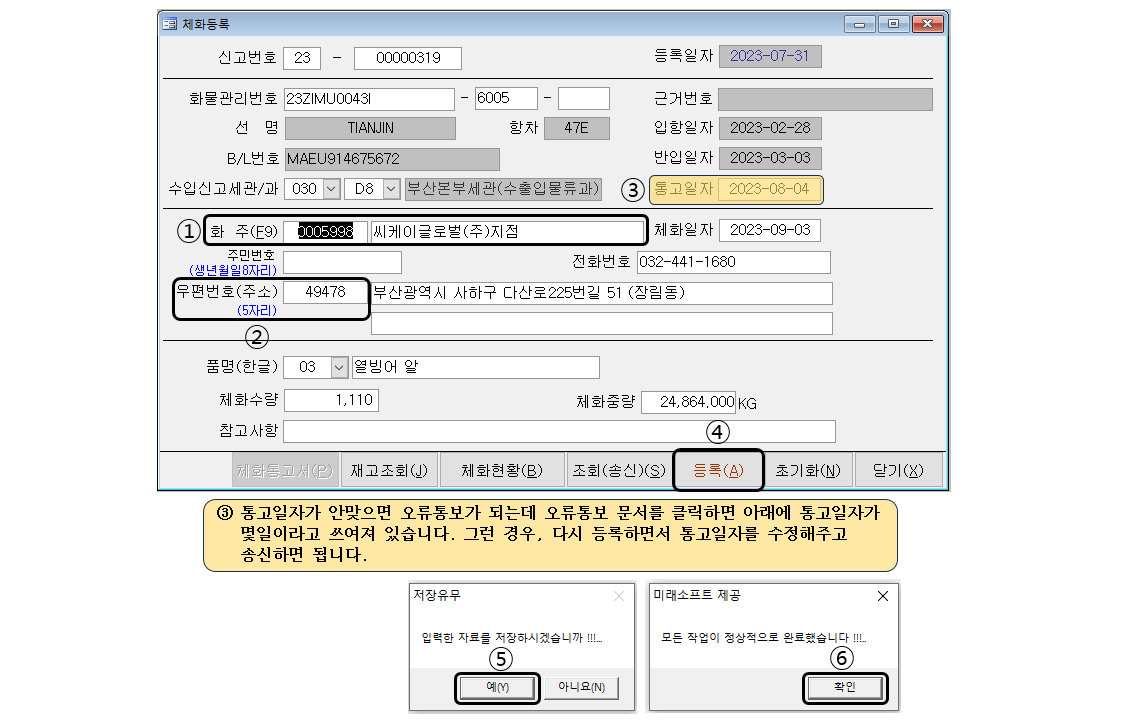
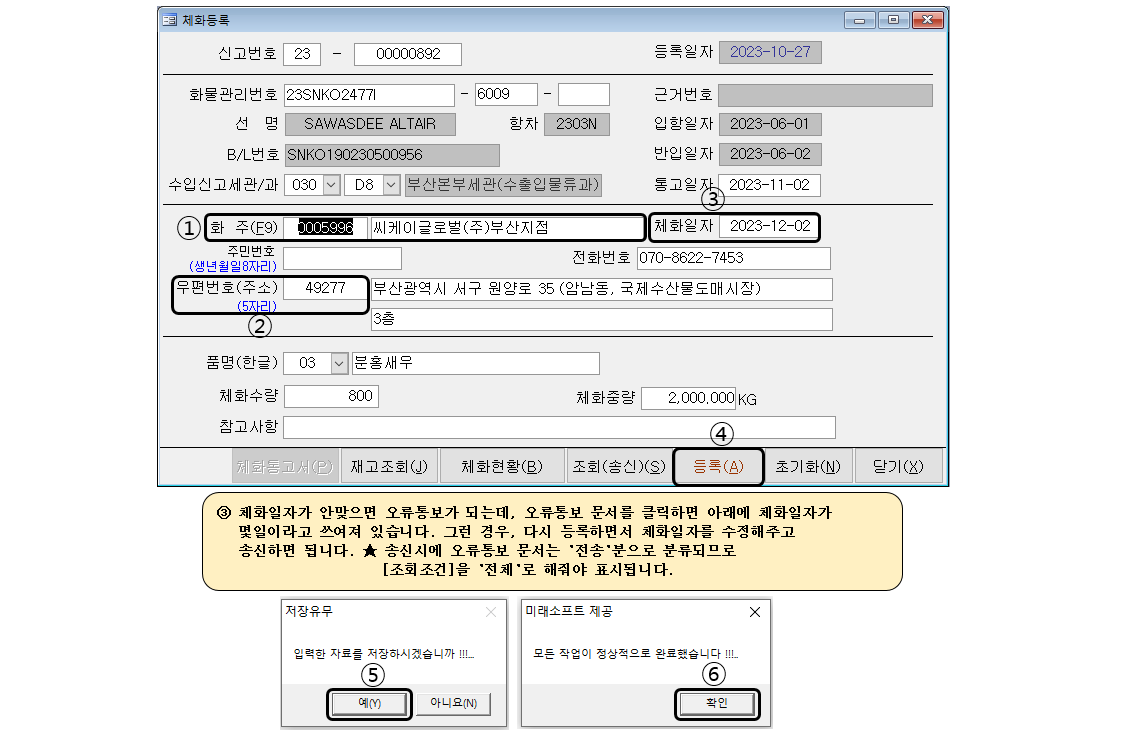
ㅊㅍㅊㅌㅍㅌ

Changed region(s): [[0.1224, 0.0, 0.826, 1.0]]

diff --git a/index.html b/index.html
@@ -113,11 +113,10 @@
       점검 및 보고사항, 특허갱신, 변경신고
       </button>
       <ul>
-        <li class="content" title="" data-title="결과물_id">X1.</li>
-        <li class="content" title="" data-title="결과물_id">X2.</li>
+        <li class="content" title="" data-title="결과물_id">X1.특허보세구역 운영상황의 보고, 재고조사 보고</li>
+        <li class="content" title="" data-title="결과물_id">X2.자율관리보세구역....</li>
         <li class="content" title="04_세관_03_법규수행평가자료준비" data-title="결과물_id">법규수행능력평가 자료 작성 및 제출 (전산)</li>
         <li class="content" title="" data-title="결과물_id">X특허갱신시 자료 작성 및 제출 (직접 제출)</li>
-        <li class="content" title="" data-title="결과물_id">X법규수행능력평가 A 등급 유지방법 (중요!!)</li>
       </ul>
     </div> 
 
@@ -147,8 +146,8 @@
         <li class="content" title="06_반출입_파순03_반출관련" data-title="결과물_id">보세화물 반출신고(등록, 송신, 수신, 확인)</li>
         <li class="content" title="06_반출입_파순04_내국화물" data-title="결과물_id">내국화물 반입 및 반출신고, 오류처리 ★</li>
         <li class="content" title="06_반출입_파순08_전산재고조사" data-title="결과물_id">X내국물품반출입신고 검증 및 전산재고조사</li>
-        <li class="content" title="06_반출입_파순05_체화등록통고" data-title="결과물_id">체화등록, 체화통고</li>
-        <li class="content" title="06_반출입_파순06_체화등록통고엑셀활용" data-title="결과물_id">체화등록, 체화통고 엑셀활용</li>
+        <li class="content" title="06_반출입_파순05_체화등록통고" data-title="결과물_id">체화등록, 체화통고, 통고서 출력</li>
+        <li class="content" title="06_반출입_파순06_체화등록통고엑셀활용" data-title="결과물_id">(체화) 반출통고서 출력 엑셀활용</li>
         <li class="content" title="06_반출입_파순07_관리화물전자SEAL" data-title="결과물_id">관리화물(전자seal)</li>
       </ul>
     </div>
@@ -678,7 +677,7 @@
     <li id="move5" class="목차">① 해당하는 문서의 내역들이 나옵니다..</li>
     <img src="portal/images/문서연결_세관및유니패스/03_세관_03_법규준수도_01_법규준수도4.png" alt="이미지없음">
     <br>
-    <h4 id="move6" class="목차">2. (중요!!) 법규수행능력 점수 보는법 (3년평균 90점이상 유지시 A등급입니다. A등급 유지가 중요합니다.)</h4>
+    <h4 id="move6" class="목차">2. (중요!!) 법규수행능력 점수 보는법 (3년평균 90점이상 유지시 A등급입니다. A등급 유지가 중요)</h4>
     <h4 id="move7" class="목차">▢ (공인인증서 로그인 후) 법규수행능력 평가 점수 확인</h4>
     <li>메뉴에 접근 : ① 전자신고 클릭, ② 통지현황 클릭.</li>
     <img src="portal/images/문서연결_세관및유니패스/03_세관_03_법규준수도_02_법규수행1.png" alt="이미지없음">
@@ -1109,29 +1108,61 @@
   <section id="06_반출입_파순05_체화등록통고">
     <div id="스크립트로ul추가"></div>
     <h4 id="move1" class="목차">&#9634; 보세화물 반입일로부터 5개월이 되면 화주에게 등기우편으로 체화통고서를 보내야합니다.</h4>
-    <h5>※ 날짜를 딱 맞추라는 이야기도 있지만 편의상 2주정도 앞에 2주간 통고대상을 모아서 등기우편을 보냅니다.</h5>
-    <h5>※ 체크리스트 등에 통고서 등기우편 보낸 내역을 적어 놓고 통고일에 전산통고합니다.</h5>
+    <h5 id="move2">※ 날짜를 딱 맞추라는 이야기도 있지만 편의상 2주정도 앞에 2주간 통고대상을 모아서 등기우편을 보냅니다.</h5>
+    <h5 id="move3">※ 프로그램에서 체화등록을 하면 체화통고서 출력할 수 있지만 전산등록 주소와 다를수 있으므로 엑셀활용법 참고</h5>
+    <h5 id="move4">※ 통고서 사본과 등기우편 발송근거(영수증)을 편철하여 보관하여야 합니다.</h5>
     <br>
-    <h4 id="move2" class="목차">1. '반입재고조회' 메뉴에서 반출통고대상 확인 및 체화등록</h4>
-    <h5>가. 반입재고조회 : EDI - 보세화물관리 - 반입재고조회 클릭 (보세화물 재고목록이 뜹니다.)</h5>
+    <h4 id="move5" class="목차">&#9634; 체화등록시에는 현재 화주 확인하고 현재화주대로 변경후 등록합니다.</h4>
+    <br>
+    <h4 id="move6" class="목차">&#9634; 체화등록시에는 우편번호를 입력해야합니다. (없으면 오류통보)</h4>
+    <br>
+    <h4 id="move7" class="목차">&#9634; 세관에는 5개월이 되는 날에 맞춰서 체화통고(전자문서 송수신) 해야합니다.</h4>
+    <h5 id="move8" class="목차">※ 달력에 정확한 통고일자 체크해 두고 통고일에 전산통고(세관에 전송)합니다.</h5>    
+    <h5 id="move9" class="목차">※ 체화일자가 쉬는 날이면 다음 근무일에 전송합니다.</h5>
+    <h5 id="move10" class="목차">※ 당일 9시 전후로 세관문서를 수신하면 '체화예정정보 누락통보/' 문서가 건별로 수신됩니다.(세관에서 알려줍니다)</h5>
+    <h5 id="move11" class="목차">※ '체화예정정보 누락통보/' 문서 클릭하면 아래에 화물관리번호 확인이 가능합니다.</h5>
+    <h5 id="move11" class="목차">※★ '체화예정정보 누락통보/' 문서만 100% 믿으면 안됩니다.</h5>
+    <h5 id="move12" class="목차">※ 체화일자 불일치시 오류통보가 수신되면 체화일자를 세관과 일치하게 수정하여 다시 송수신합니다.</h5>
+    <br>
+    <h4 id="move13" class="목차">&#9634; 순서1 : 전산 체화등록 ('체화일자수정' 할 때도 이 순서대로 하면 됩니다)</h4>
+    <h5> ※ 체화일자를 수정해야하는 경우가 자주 있음. (세관에 등록된 체화일자와 다른 경우 오류통보가 수신되는데</h5>
+    <h5 class="h5_번들작">이곳에서 전산 체화등록을 하면서 체화일자를 수정해서 등록하면 됩니다.)</h5>
+    <h5> ※ 체화등록을 하면 송수신은 '체화 조회(송신)' 메뉴에서 합니다.</h5>
+    <br>
+    <h5 id="move14" class="목차">1. 메뉴에 접근 : EDI - 보세화물관리 - 반입재고조회 클릭 (보세화물 재고목록이 뜹니다.)</h5>
     <img src="portal/images/문서연결_세관및유니패스/06_반출입_파순05_01반입재고조회.png" alt="이미지없음">
-    <h5 class="h5_번들작">ⓐ 통고서 등기우편 보낼 목록을 정해서 BL번호 메모해놓습니다.</h5>
-    <h5 class="h5_번들번들작">'수탁관리 - 재고관리 - 거래처/품명별 재고현황'에서 BL번호조회하여 '거래처' 확인, 메모</h5>
     <br>
-    <h5>나. 반입재고조회 : EDI - 보세화물관리 - 반입재고조회 </h5>
-    <h5 class="h5_번들작">① BL번호 넣고, ② 검색, ③ 체화통고등록(C) 클릭</h5>
+    <h5 id="move15" class="목차">2. ① 자료선택, ② 체화통고등록(C) 클릭 (통고등록화면 뜹니다)</h5>
+    <h5> ※ 반입일과 BL번호를 참고하여 찾습니다.</h5>
     <img src="portal/images/문서연결_세관및유니패스/06_반출입_파순05_02통고등록접근.png" alt="이미지없음">
     <br>
-    <h5 id="move3" class="목차">다. 체화통고 등록 화면 </h5>
-    <h5 class="h5_번들작">① 화주는 확인해 둔 현재화주와 다르면 현재화주로 변경.</h5>
+    <h5 id="move16" class="목차">3. 체화통고 등록 화면 (★ 등록하면 '체화 조회(송신)' 메뉴에 정보 생성됨)</h5>
+    <h5 class="h5_번들작">① [재고조회에서 현재화주 확인] 화주는 확인해 둔 현재화주와 다르면 현재화주로 변경.</h5>
     <h5 class="h5_번들작">② 우편번호 없으면 넣어야 합니다. (없으면 오류통보 수신됩니다.)</h5>
-    <h5 class="h5_번들작">③ 통고일자가 안맞으면 오류통보가 되는데, 오류통보 문서를 클릭하면 아래에 통고일자가</h5>
-    <h5 class="h5_번들번들작">&nbsp;몇일이라고 쓰여져 있습니다. 그런 경우, 다시 등록하면서 통고일자를 수정해주고 송신하면 됩니다.</h5>
-    <h5 class="h5_번들번들작">&nbsp;★ 조회조건을 '전체'로 하여야합니다. 송신된것으로 분류되므로 미전송분에는 안뜹니다.</h5>
+    <h5 class="h5_번들작">③ '체화예정일자'가 안맞으면 나중에 송신하면 오류통보가 되는데, </h5>
+    <h5 class="h5_번들번들작">&nbsp;이곳에서 새로 등록하면서 '체화일자'를 수정해주고 송신하면 됩니다.</h5>
+    <h5 class="h5_번들번들작">&nbsp;★ 오류통보된 것은 송신된것으로 분류되므로 미전송분에는 안뜹니다. 조회조건을 '전체'로 하여야합니다.</h5>
     <h5 class="h5_번들작">④ 등록(A) 클릭, ⑤ 예(Y) 클릭, ⑥ 확인 클릭</h5>
     <img src="portal/images/문서연결_세관및유니패스/06_반출입_파순05_03통고등록.png" alt="이미지없음">
     <br>
-    <h5 id="move4" class="목차">라. 체화통고서 출력 (출력하려면 선택체크 해야하는데 송신되면 선택체크가 안됩니다.) </h5>
+    <h4 id="move20" class="목차">&#9634; 순서2 : 전산 체화송수신 (오류통보시 '체화일자수정[체화통고 등록 다시]' 후 다시 송수신)</h4>
+    <h5 id="move21" class="목차">1. 메뉴에 접근 : EDI - 보세화물관리 - 체화 조회(송신)</h5>
+    <h5 class="h5_번들작">※ 체화통고 등록된 내역이 이곳에 저장되어 있습니다. 송수신을 이곳에서 합니다.</h5>
+    <img src="portal/images/문서연결_세관및유니패스/06_반출입_파순05_04통고서출력접근.png" alt="이미지없음">
+    <br>
+    <h5 id="move22" class="목차">2. 자료 송신</h5>
+    <h5 class="h5_번들작">① 오류통보 건은 전송분으로 분류되므로 필요시 '전체'로 선택</h5>
+    <h5 class="h5_번들작">② 통고일자 설정후 엔터치면 조회됩니다.</h5>
+    <h5 class="h5_번들작">③ 전송할 항목 체크 (여러건 체크 가능)</h5>
+    <h5 class="h5_번들작">④ 전송준비(F) 클릭, ⑤ 전송(T) 클릭, ⑥ 접수확인(O) 클릭하여 오류통보인지 정상처리인지 확인</h5>
+    <img src="portal/images/문서연결_세관및유니패스/06_반출입_파순05_07송신.png" alt="이미지없음">
+    <br>
+    <h4 id="move23" class="목차">&#9634; 오류통보 예시 (체화일자 확인)</h4>
+    <img src="portal/images/문서연결_세관및유니패스/06_반출입_파순05_07오류통보.png" alt="이미지없음">
+    <br>
+    <h4 id="move24" class="목차">&#9634; 통고서출력(프로그램에서)</h4>
+    <h5>[우편물 수령주소가 전산등록정보와 다른곳도 있어서 엑셀활용하고 있음]</h5>
+    <h5 id="move25" class="목차">1. 체화통고서 출력 (출력하려면 선택체크 해야하는데 송신되면 선택체크가 안됩니다.) </h5>
     <h5 class="h5_번들작">※ 선택 체크 안되면 업체주소와 정보등이 안나옵니다.</h5>
     <h5 class="h5_번들작">※ 체화통고 등록이 되어야 조회 및 송신이 가능합니다.</h5>
     <h5 class="h5_번들작">① 메뉴에 접근 : EDI - 보세화물관리 - 체화 조회(송신)</h5>
@@ -1143,16 +1174,9 @@
     <img src="portal/images/문서연결_세관및유니패스/06_반출입_파순05_05출력체크.png" alt="이미지없음">
     <img src="portal/images/문서연결_세관및유니패스/06_반출입_파순05_06출력.png" alt="이미지없음">
     <br>
-    <h5 id="move5" class="목차">마. 출력한 체화통고서는 등기우편 발송 (총무부에 발송 부탁하면 됩니다.)  </h5>
-    <h5 class="h5_번들작">※ 직인찍고 원본은 등기우편 발송하고 복사본은 우편발송 영수증과 함께 보관합니다.   </h5>
-    <br>
-    <h5 id="move6" class="목차">바. 송신 (오류통보시 문서에 오류통보라고 따로 뜨지 않기 때문에 수신확인을 꼭 해야합니다.)  </h5>
-    <h5 class="h5_번들작">① 메뉴에 접근 : EDI - 보세화물관리 - 체화 조회(송신)</h5>
-    <img src="portal/images/문서연결_세관및유니패스/06_반출입_파순05_04통고서출력접근.png" alt="이미지없음">
-    <h5 class="h5_번들작">② 통고일자 설정후 엔터치면 조회됩니다.</h5>
-    <h5 class="h5_번들작">③ 출력할 항목 체크 (여러건 체크 가능)</h5>
-    <h5 class="h5_번들작">④ 전송준비(F) 클릭 ⑤⑥⑦</h5>
-    <img src="portal/images/문서연결_세관및유니패스/06_반출입_파순05_07송신.png" alt="이미지없음">
+    <h4 id="move26" class="목차">&#9634; [세관 관련 업무] 통고서 보관, 등기우편 발송 영수증 보관</h4>
+    <h5 id="move27" class="목차">1. 출력한 체화통고서는 '직인 도장 찍고' 등기우편 발송 (총무부에 발송 부탁하면 됩니다.)  </h5>
+    <h5 id="move28" class="목차">2. 체화통고서 복사본과 등기우편 발송 영수증을 보관합니다.</h5>
     <br><br><br><br>
   </section>
 
